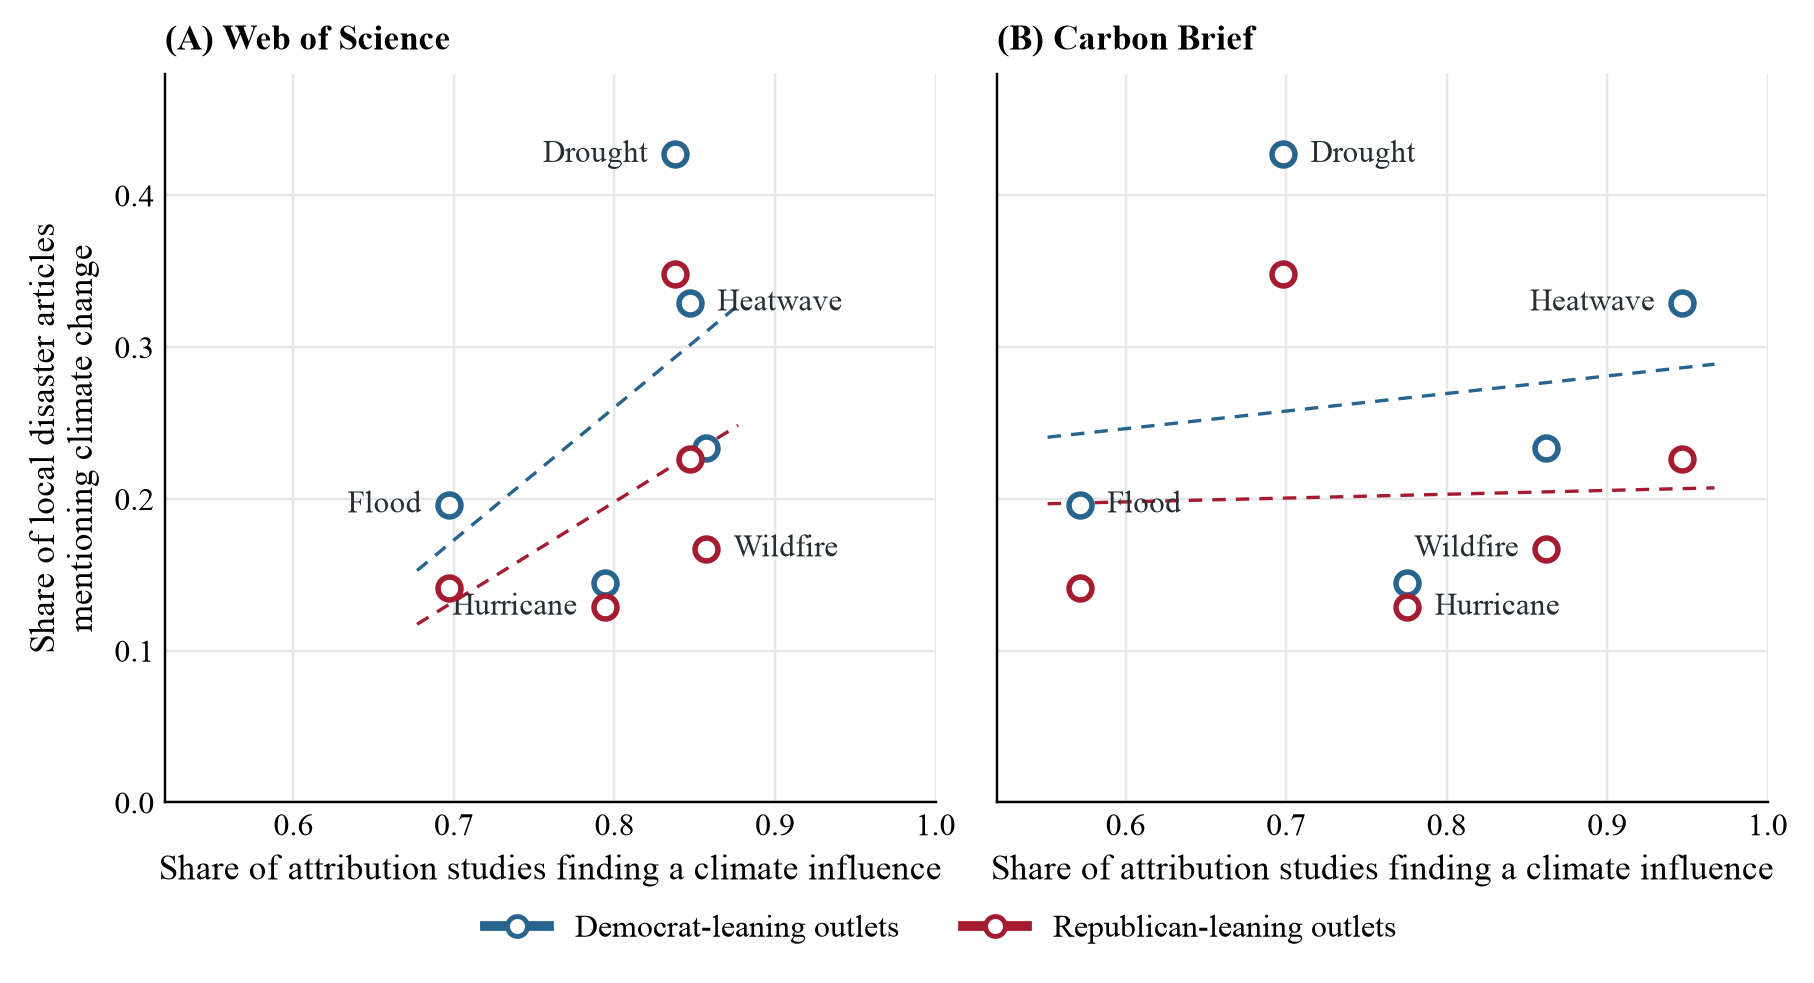
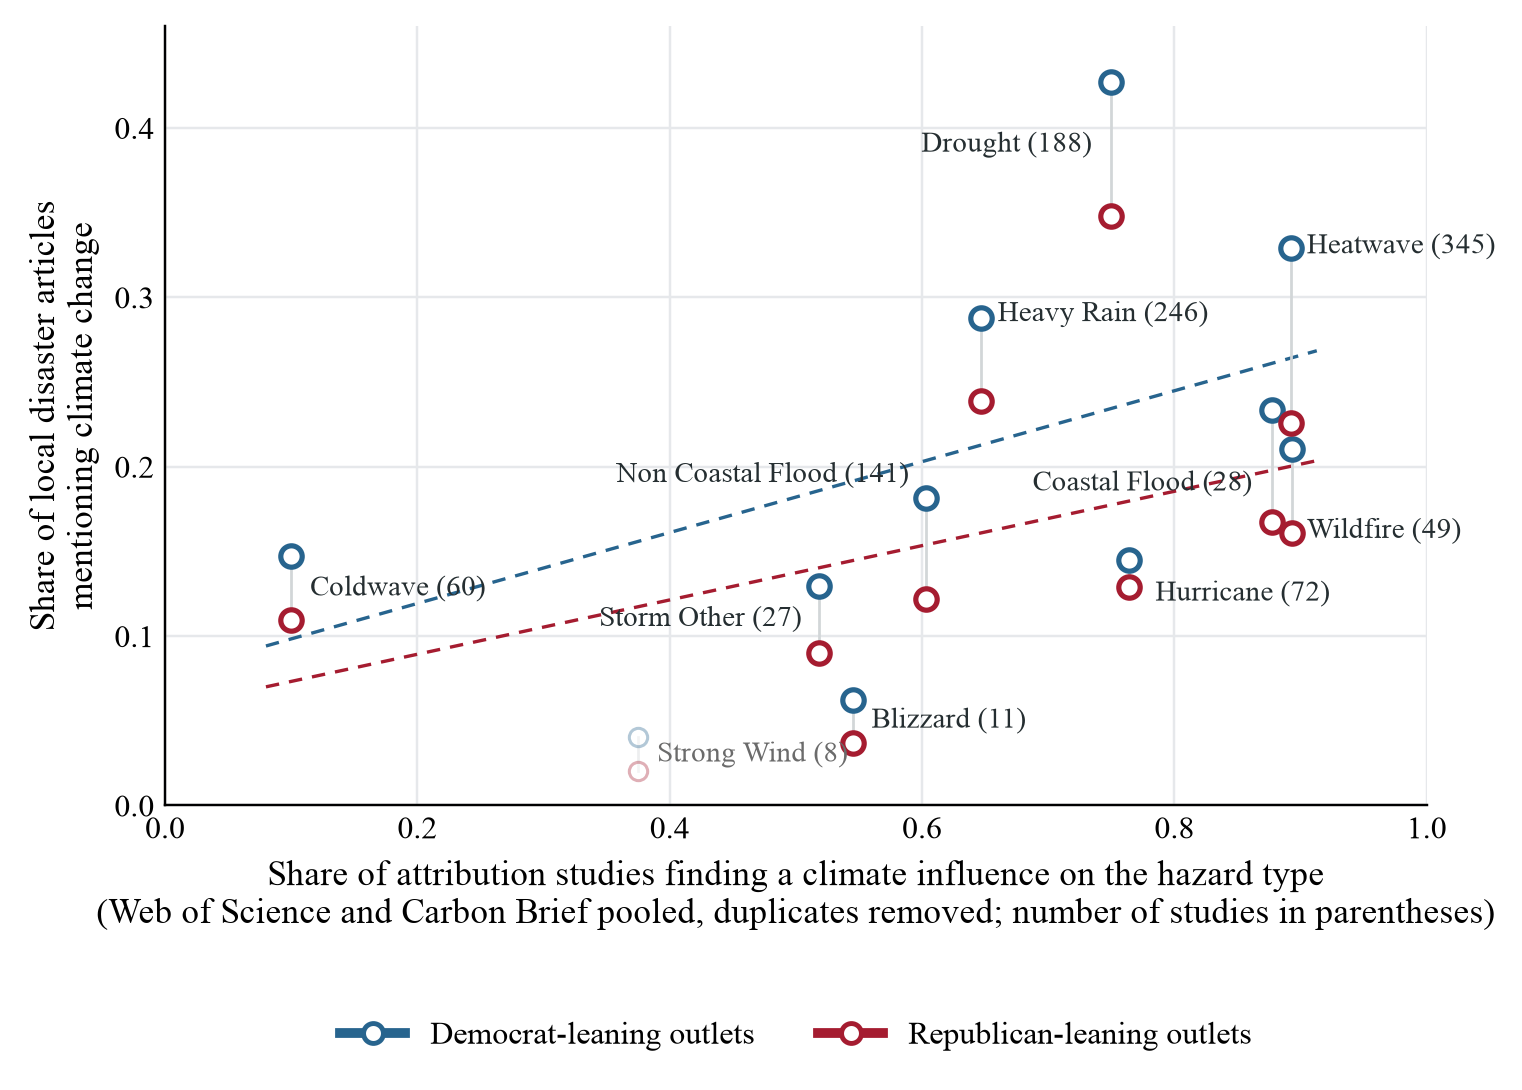
Alignment slide: pooled Web of Science + Carbon Brief benchmark, eleven hazard types

diff --git a/index.html b/index.html
@@ -83,7 +83,7 @@
           </figure>
           <figure class="figure-slide">
             <a href="figures/jmp/alignment_attribution_science.png"><img src="figures/jmp/alignment_attribution_science.png" alt="Climate mention share in local disaster news against the share of attribution studies finding a climate influence, by hazard type and outlet slant" loading="lazy" /></a>
-            <figcaption><span class="figgroup">News and beliefs.</span> Interpretation by hazard type and outlet slant: the share of local disaster articles mentioning climate change against the share of attribution studies finding a climate influence on that hazard type, for Democrat-leaning and Republican-leaning outlets. Panel A uses the Web of Science attribution literature, panel B Carbon Brief&rsquo;s database, both on the same five hazard categories.</figcaption>
+            <figcaption><span class="figgroup">News and beliefs.</span> Interpretation by hazard type and outlet slant: the share of local disaster articles mentioning climate change against the share of event-attribution studies finding a climate influence on that hazard type, for Democrat-leaning and Republican-leaning outlets. The attribution benchmark pools the Web of Science literature and Carbon Brief&rsquo;s database under one classification, with duplicate studies removed; hazard types with fewer than ten studies are shown faded and left out of the fitted lines.</figcaption>
           </figure>
           <figure class="figure-slide">
             <a href="figures/jmp/beliefs_and_green_investment.png"><img src="figures/jmp/beliefs_and_green_investment.png" alt="Climate beliefs, green investment, and disaster responses" loading="lazy" /></a>
